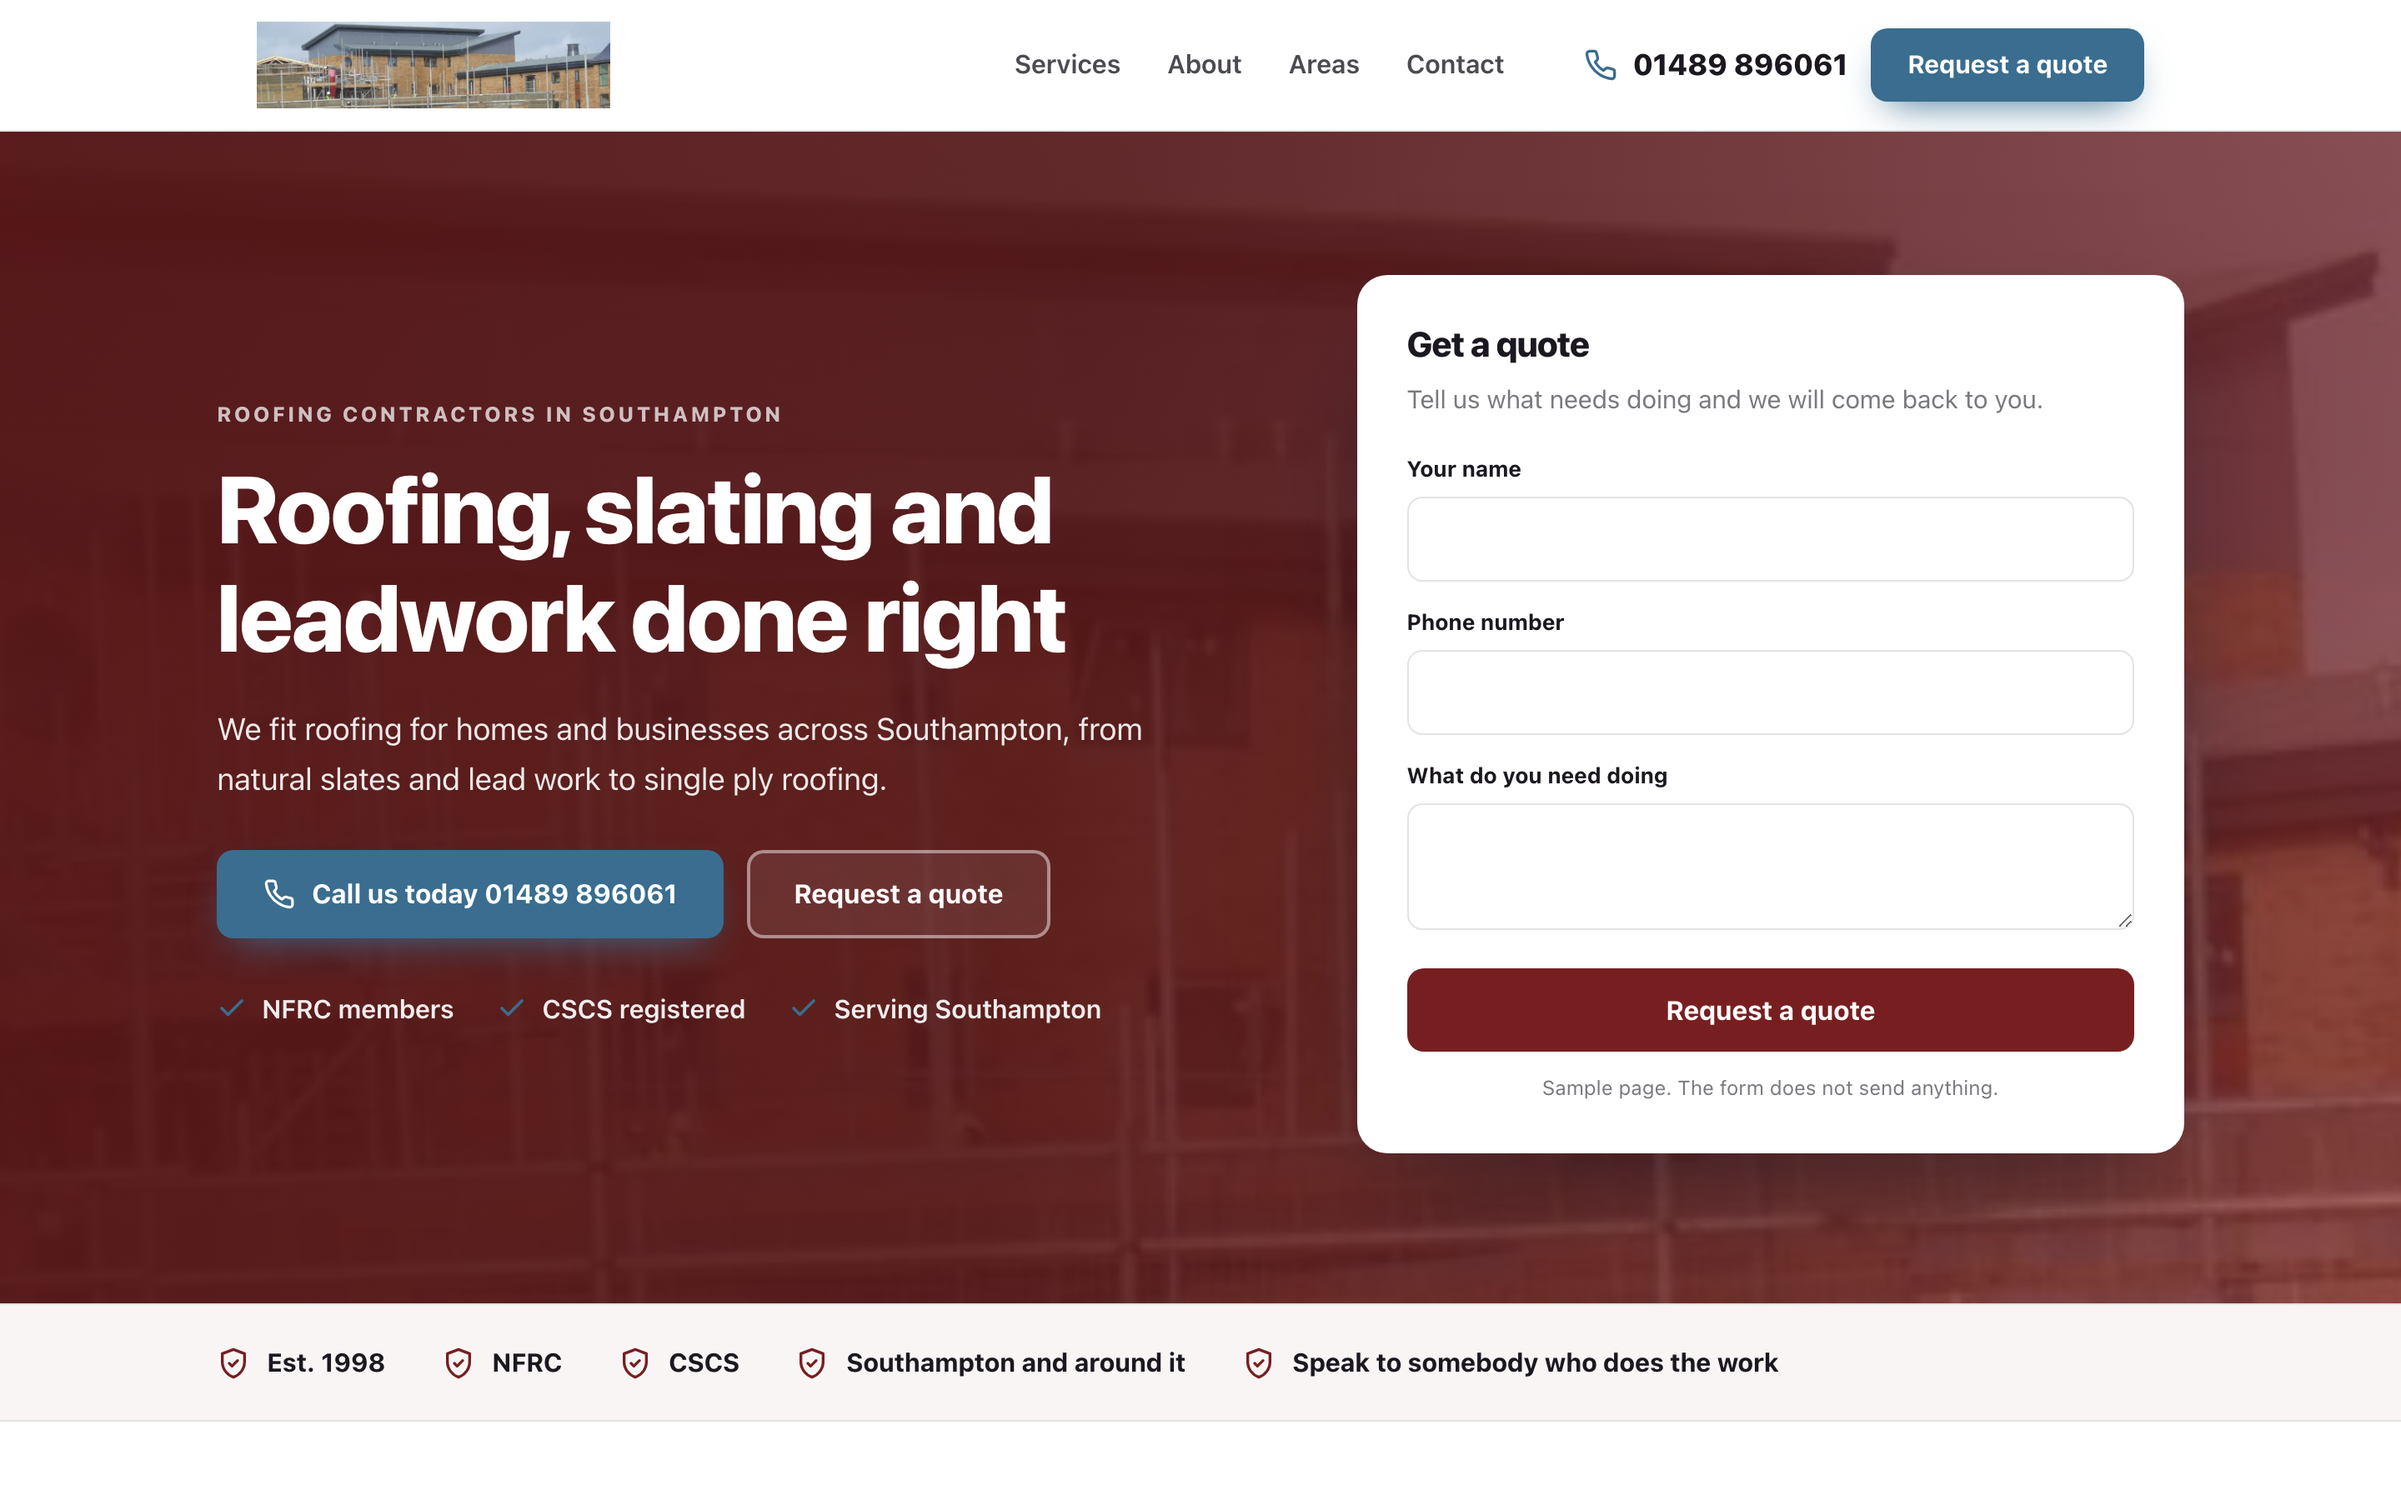
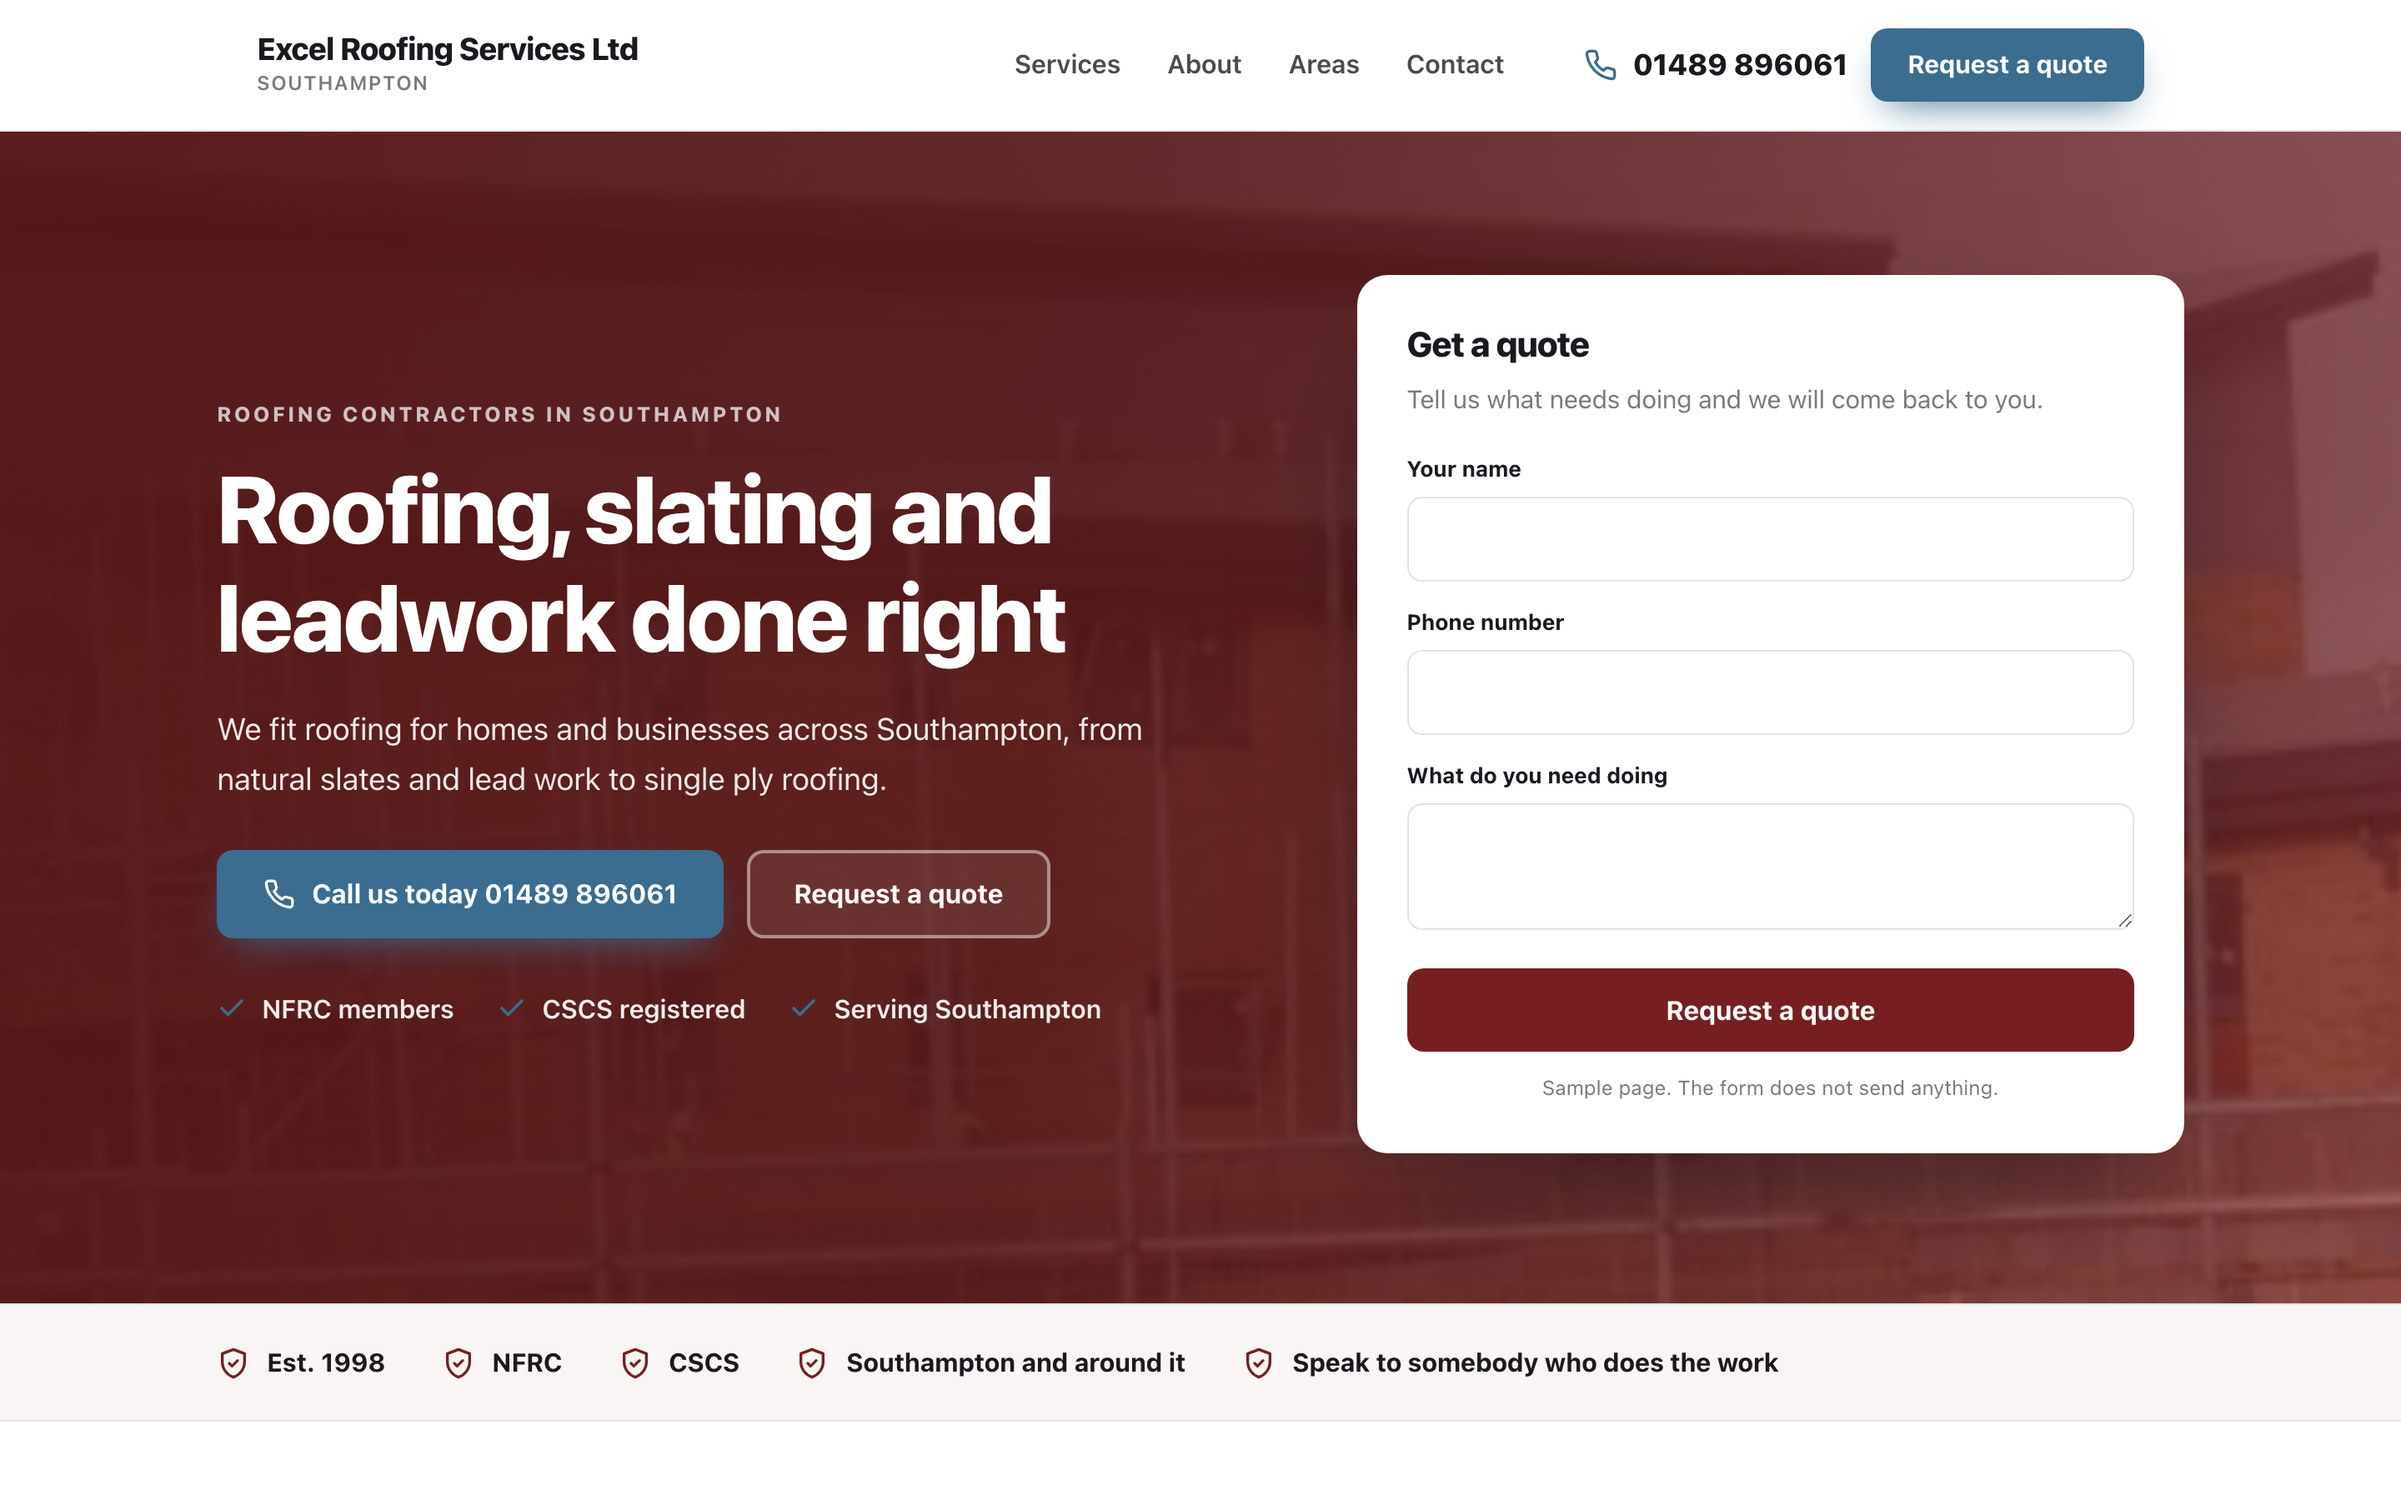
Sample homepage for Excel Roofing Services Ltd

Changed region(s): [[0.0938, 0.0, 0.2812, 0.0933]]

diff --git a/docs/45bf19065b/index.html b/docs/45bf19065b/index.html
@@ -4,7 +4,7 @@
 <meta charset="utf-8">
 <meta name="viewport" content="width=device-width, initial-scale=1">
 <meta name="robots" content="noindex,nofollow">
-<meta name="aso-build" content="e9c162a565bf">
+<meta name="aso-build" content="57a62b776b01">
 <title>Excel Roofing Services Ltd sample homepage</title>
 <meta name="description" content="We fit roofing for homes and businesses across Southampton, from natural slates and lead work to single ply roofing.">
 <link rel="canonical" href="https://markygff.github.io/aso-mockups/45bf19065b/">
@@ -121,7 +121,10 @@ p{margin:0}
 <header class="header">
   <div class="wrap header-in">
     <div class="brand">
-<img src="img/logo.jpg" alt="Excel Roofing Services Ltd logo">    </div>
+      <div>
+        <div class="brand-name">Excel Roofing Services Ltd</div>
+<div class="brand-sub">Southampton</div>      </div>
+    </div>
     <nav class="nav">
       <span>Services</span><span>About</span><span>Areas</span><span>Contact</span>
     </nav>
